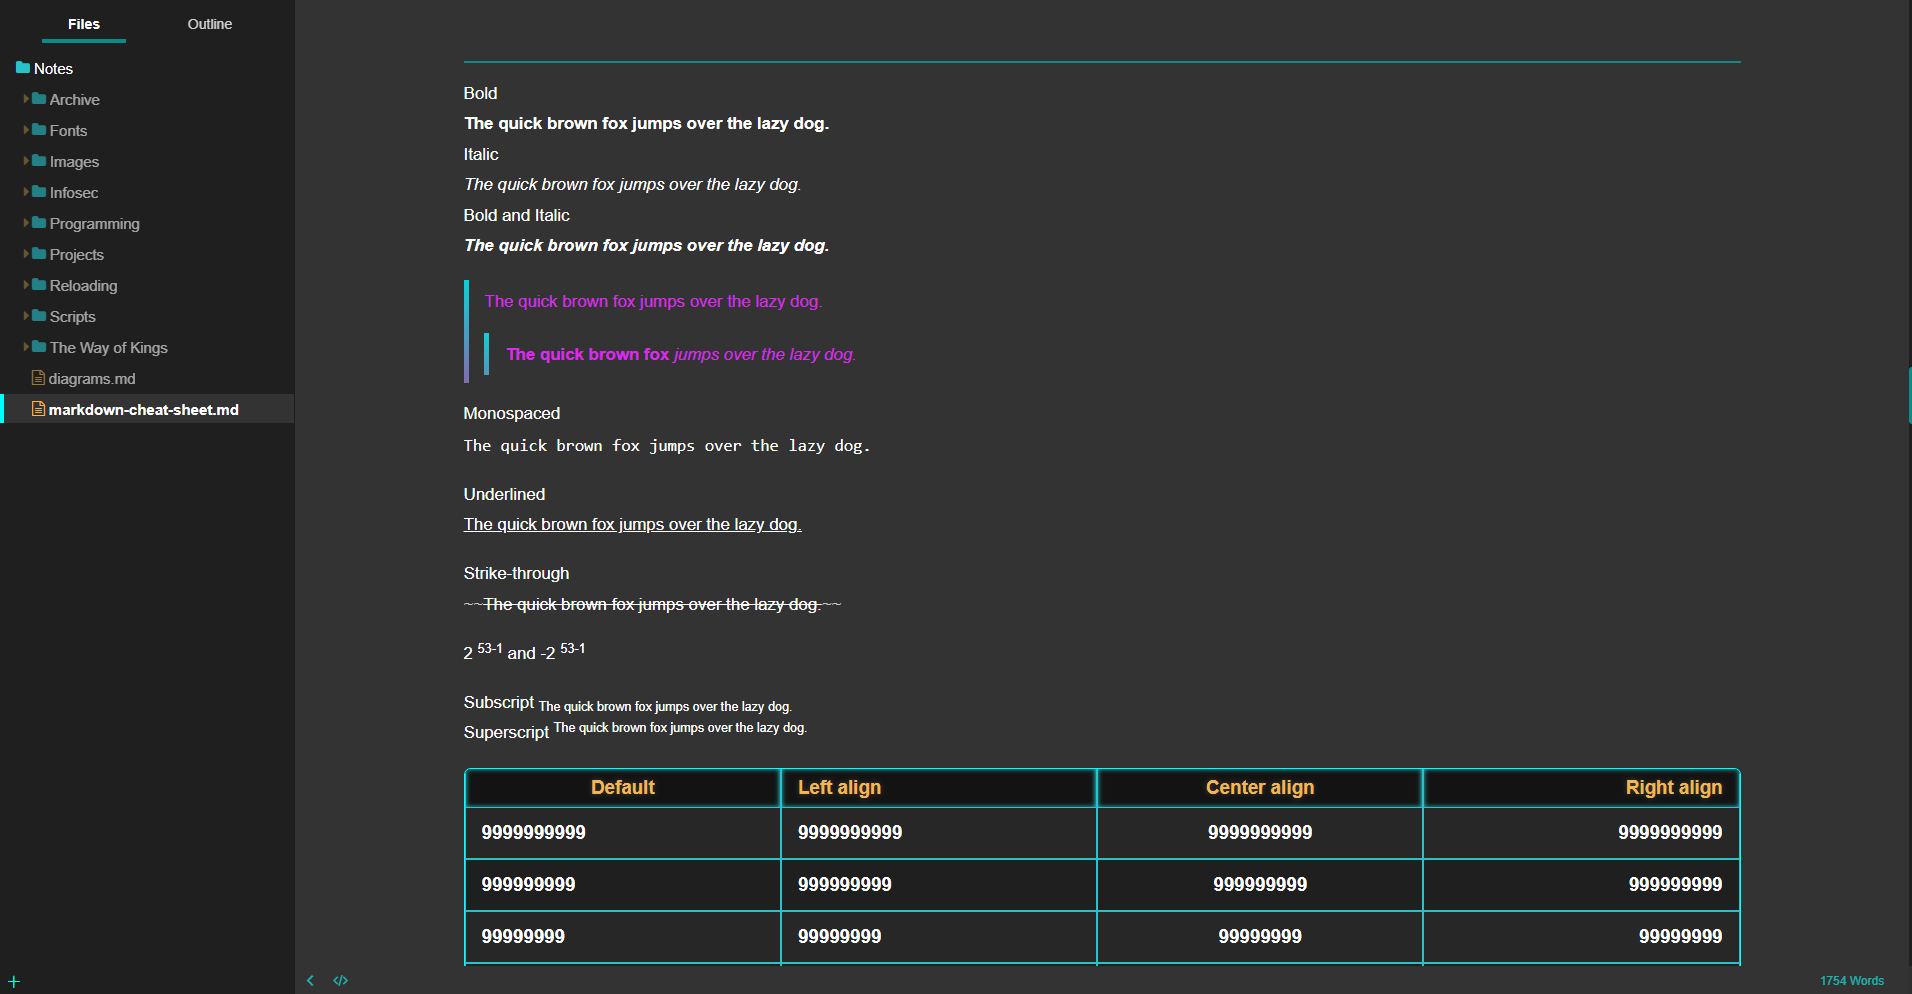
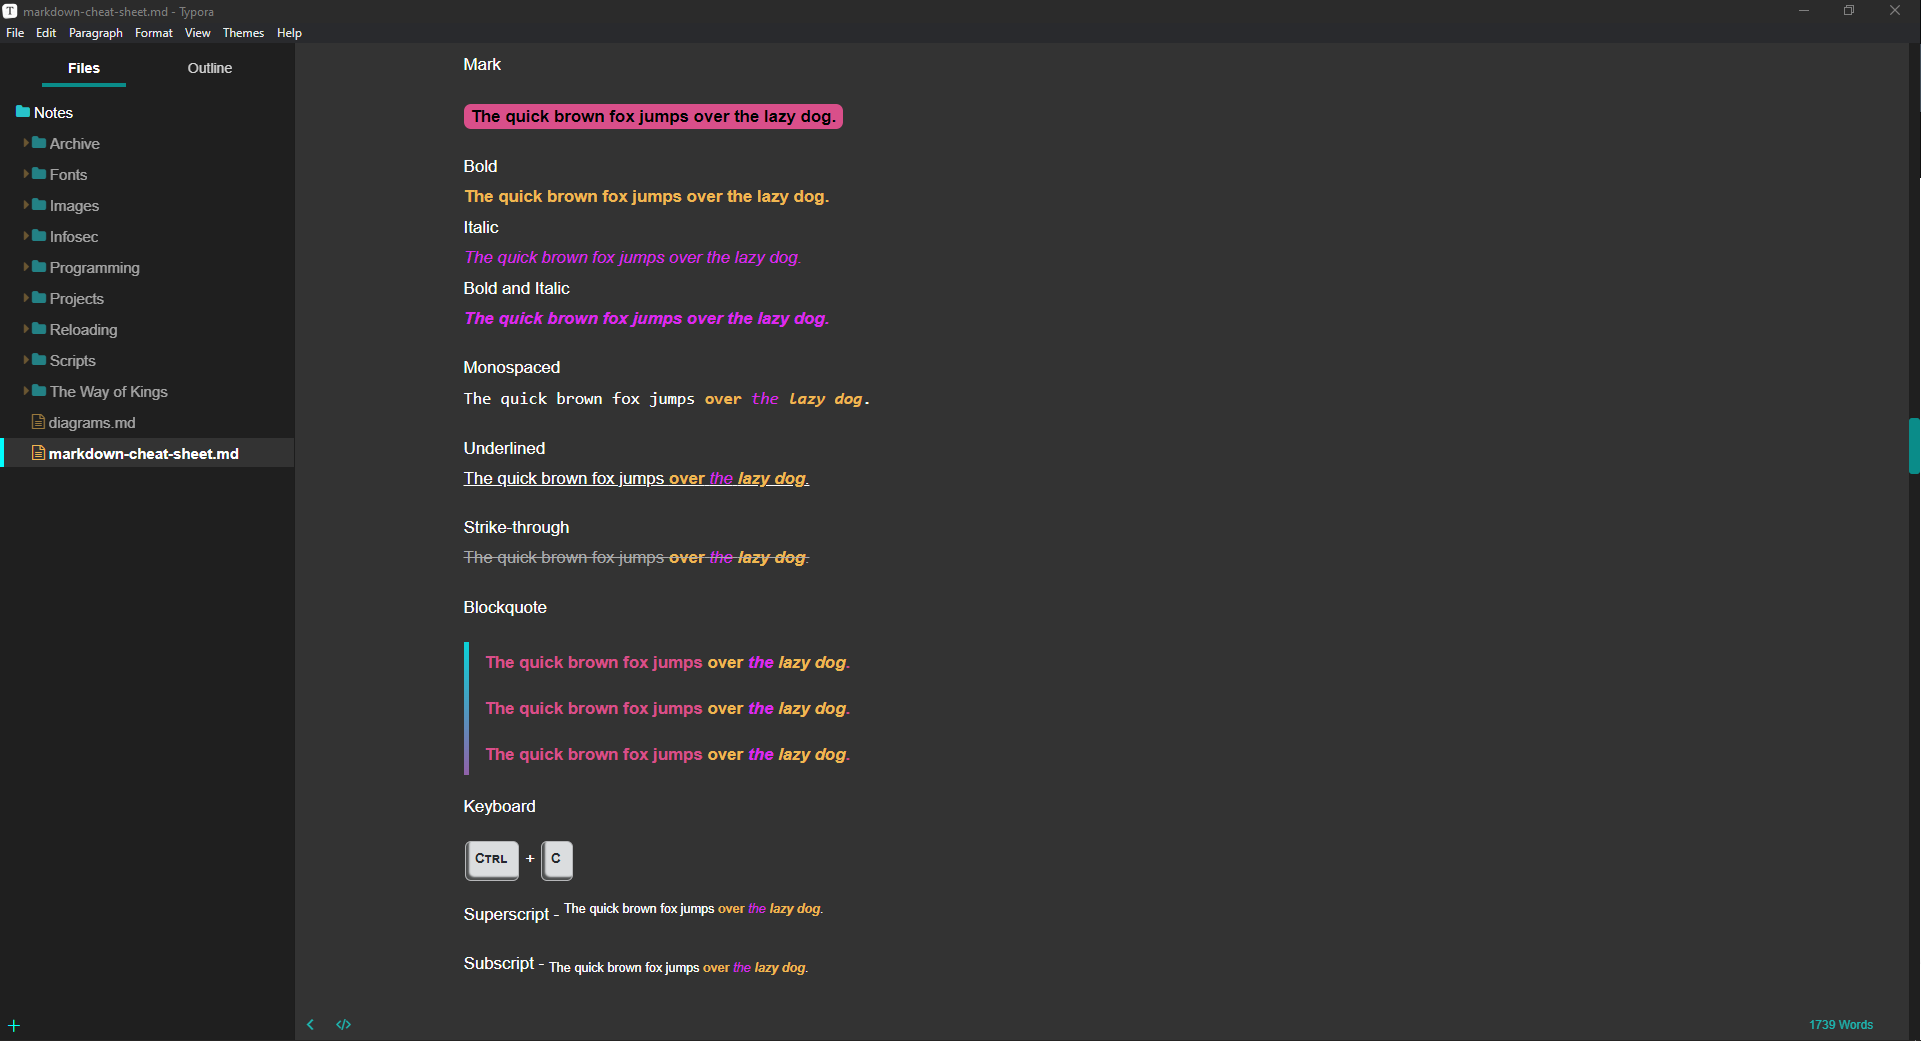
Color changes + updated Screenshots

diff --git a/nova/headers.css b/nova/headers.css
@@ -1,22 +1,22 @@
 /* Header colors */
 
 :root {
-    --h1-bg-color: linear-gradient(315deg, var(--h1-color-back) 0%, var(--h1-color-front) 79%);
+    --h1-bg-color: linear-gradient(333deg, var(--h1-color-back) 0%, var(--h1-color-front) 91%);
     --h1-color: var(--h1-color-front);
   
-    --h2-bg-color: linear-gradient(315deg, var(--h2-color-back) 0%, var(--h2-color-front) 79%);
+    --h2-bg-color: linear-gradient(333deg, var(--h2-color-back) 0%, var(--h2-color-front) 91%);
     --h2-color: var(--h2-color-front);
 
-    --h3-bg-color: linear-gradient(315deg, var(--h3-color-back) 0%, var(--h3-color-front) 79%);
+    --h3-bg-color: linear-gradient(333deg, var(--h3-color-back) 0%, var(--h3-color-front) 91%);
     --h3-color: var(--h3-color-front);
   
-    --h4-bg-color: linear-gradient(315deg, var(--h4-color-back) 0%, var(--h4-color-front) 79%);
+    --h4-bg-color: linear-gradient(333deg, var(--h4-color-back) 0%, var(--h4-color-front) 91%);
     --h4-color: var(--h4-color-front);
   
-    --h5-bg-color: linear-gradient(315deg, var(--h5-color-back) 0%, var(--h5-color-front) 79%);
+    --h5-bg-color: linear-gradient(333deg, var(--h5-color-back) 0%, var(--h5-color-front) 91%);
     --h5-color: var(--h5-color-front);
   
-    --h6-bg-color: linear-gradient(315deg, var(--h6-color-back) 0%, var(--h6-color-front) 79%);
+    --h6-bg-color: linear-gradient(333deg, var(--h6-color-back) 0%, var(--h6-color-front) 91%);
     --h6-color: var(--h6-color-front);
 }
 

diff --git a/nova/colors.css b/nova/colors.css
@@ -28,18 +28,18 @@
     --color-keyboard-background:  #f6f8fadc;
     --color-keyboard-border: #1f202033;
     --color-keyboard-shadow: #1f2020c0;
-    --h1-color-front: #ff9700;
-    --h1-color-back: #ff2d2d;
-    --h2-color-front: #0beeff;
+    --h1-color-front: #ff9100;
+    --h1-color-back: #0c9ffa;
+    --h2-color-front: #0BEEFF;
     --h2-color-back: #d90bed;
-    --h3-color-front: #e6f330;
-    --h3-color-back: #1EAE98;
-    --h4-color-front: #df208e;
-    --h4-color-back: #05D6D9;
-    --h5-color-front: #C6EA8D;
+    --h3-color-front: #FF61D2;
+    --h3-color-back: #35DE8F;
+    --h4-color-front: #38EF7D;
+    --h4-color-back: #B0F5E0;
+    --h5-color-front: #A9F1DF;
     --h5-color-back: #FE90AF;
-    --h6-color-front: #C33764;
-    --h6-color-back: #92EFFD;
+    --h6-color-front: #FE9090;
+    --h6-color-back: #BFF098;
     --color-test: #1eff00;
 }
 

diff --git a/nova/misc.css b/nova/misc.css
@@ -79,13 +79,13 @@ kbd {
 /* Bold */
 strong {
     background-color: inherit;
-    color: var(--color-orange);
+    color: var(--color-orange) !important;
 }
 
 /* Italic */
 em {
     background-color: inherit;
-    color: var(--color-bright-purple)
+    color: var(--color-bright-purple);
 }
 
 /* Underline */
@@ -114,6 +114,7 @@ mark {
     padding: 3px 7px 3px 7px;
     white-space: break-spaces;
 }
+
 
 #md-notification {
     background: var(--color-darker-gray);
@@ -270,8 +271,8 @@ blockquote {
 blockquote,
 blockquote p {
     line-height: 1.6;
-    font-weight: 500;
-    color: var(--color-bright-purple); 
+    font-weight: 600;
+    color: #D94F8A; 
 }
 
 blockquote .md-end-block.md-heading {
